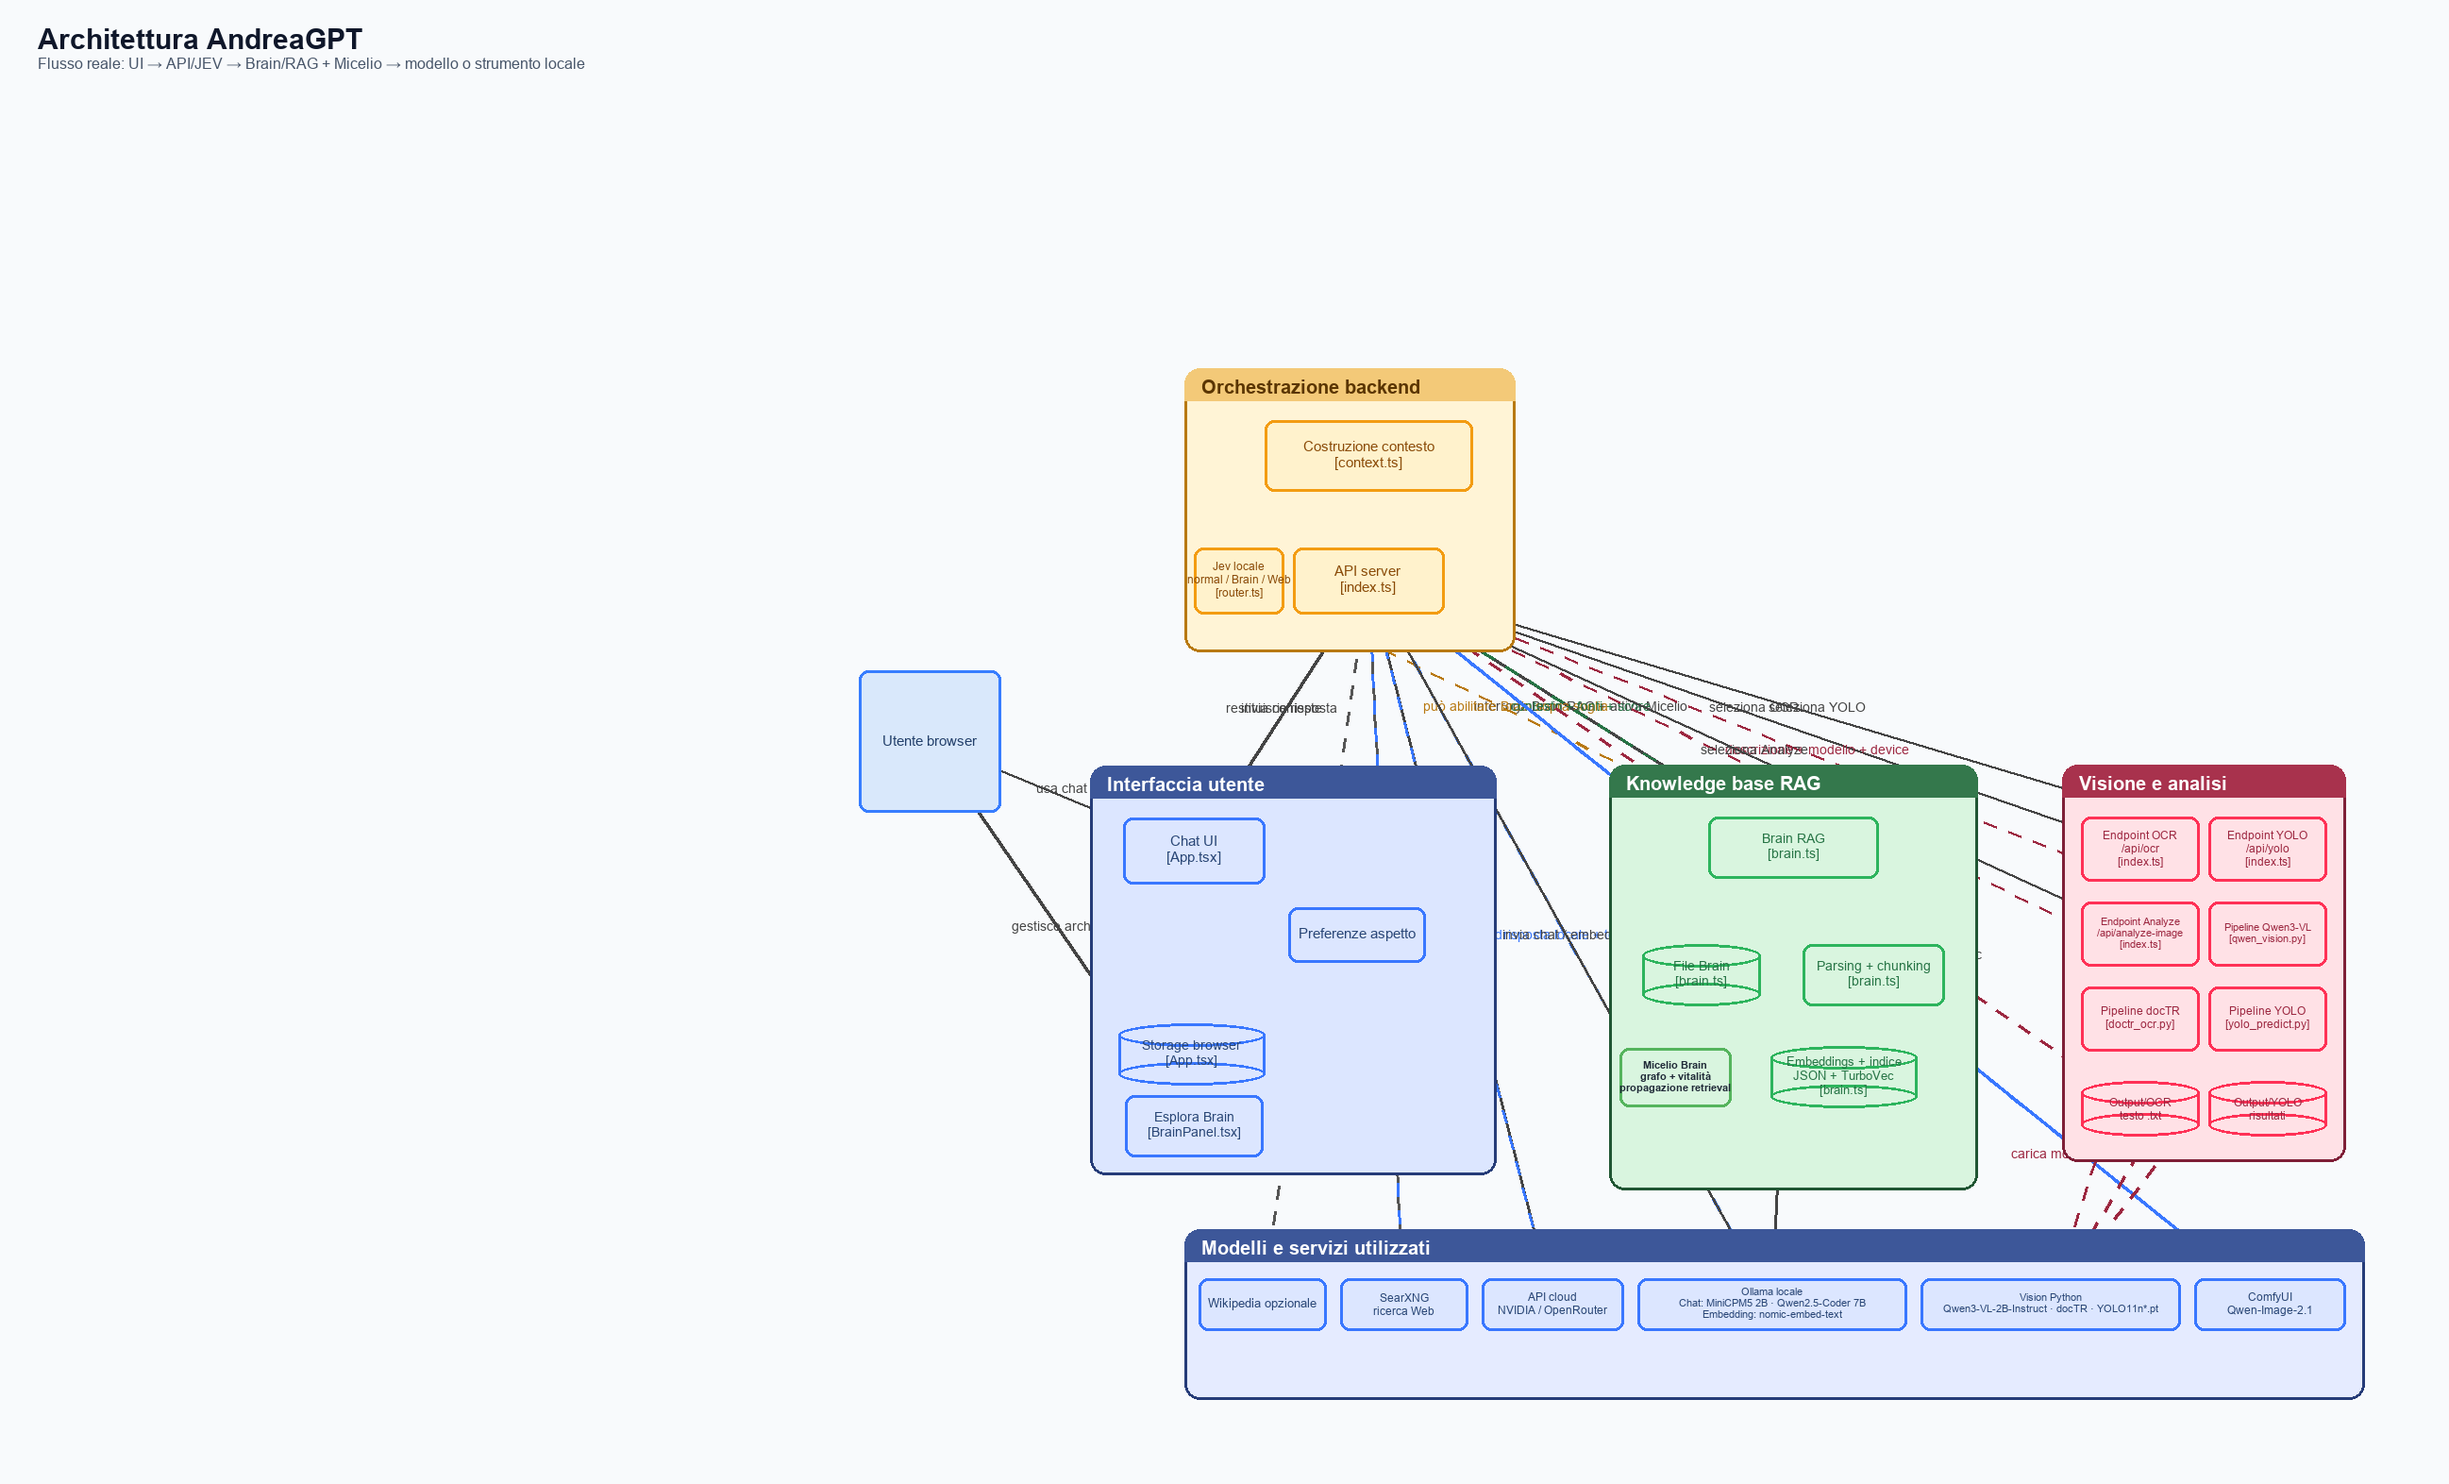
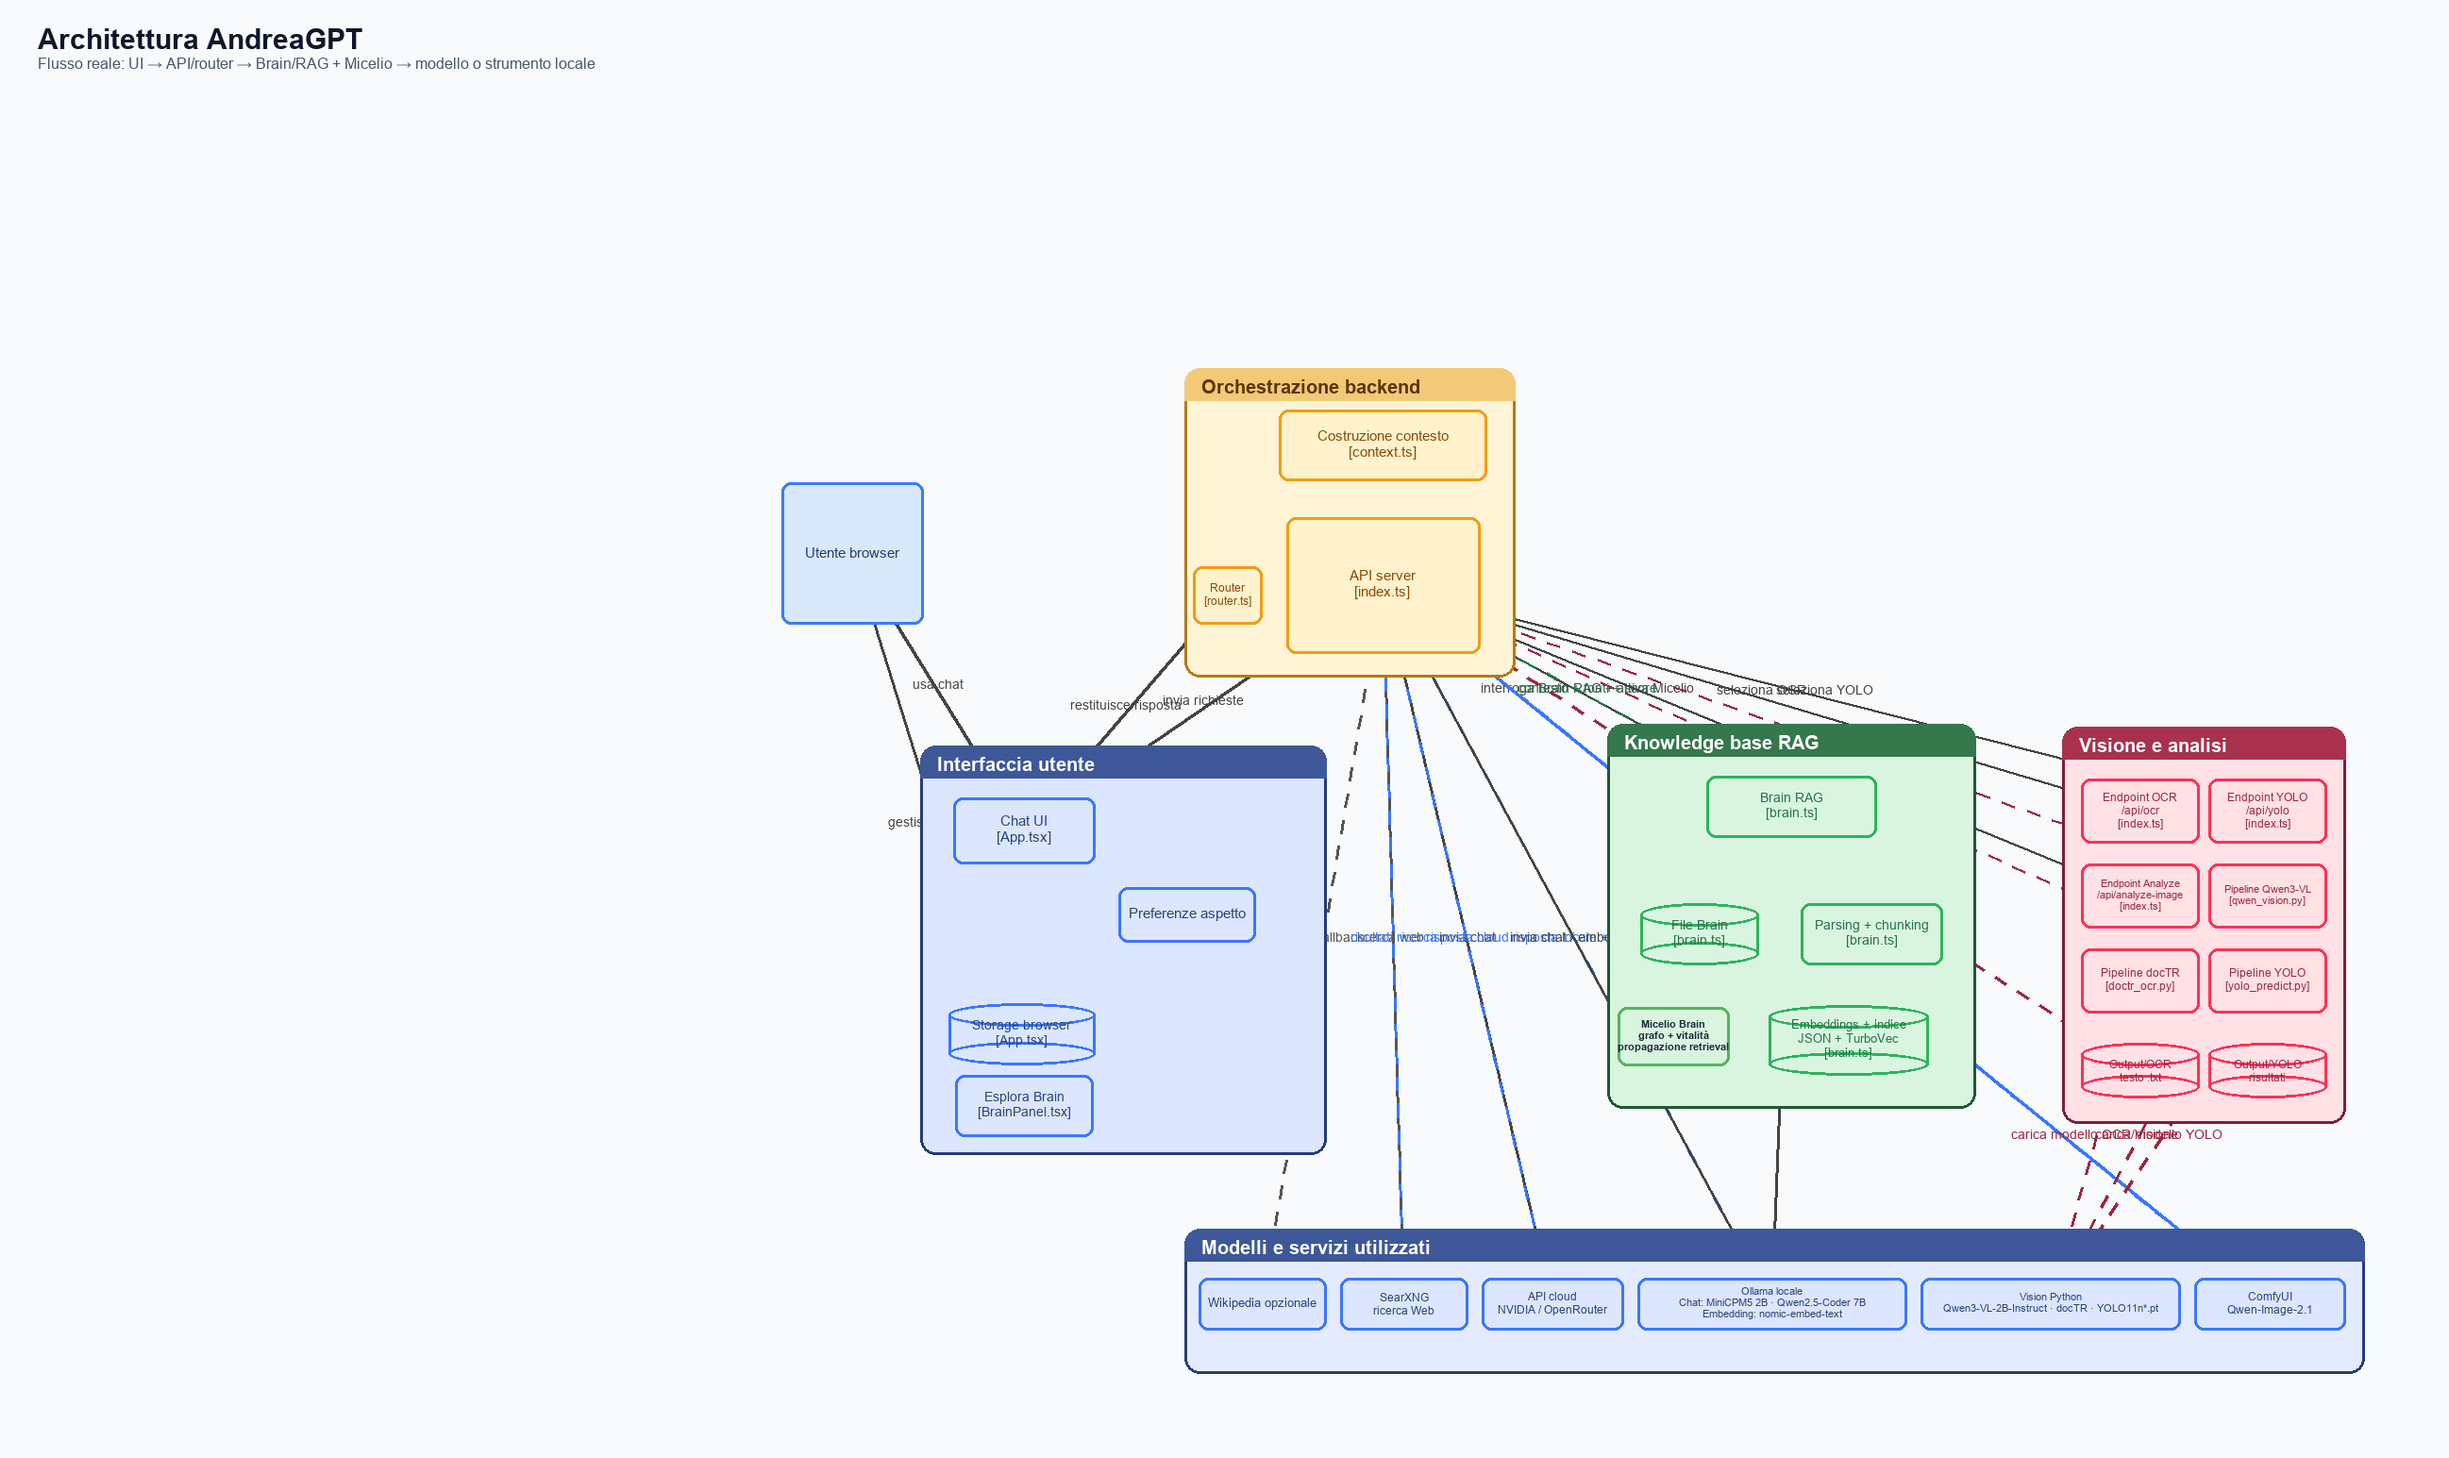
Aggiorna 01/10  PM

Changed region(s): [[0.3121, 0.2485, 0.9676, 0.932], [0.0312, 0.0311, 0.2497, 0.0621]]

diff --git a/scripts/tools/render_drawio_png.py b/scripts/tools/render_drawio_png.py
@@ -13,6 +13,7 @@ from PIL import Image, ImageDraw, ImageFont
 
 INPUT = Path(sys.argv[1] if len(sys.argv) > 1 else "DRAW/architettura-andreagpt.drawio")
 OUTPUT = Path(sys.argv[2] if len(sys.argv) > 2 else INPUT.with_suffix(".png"))
+IS_MAIN_ARCHITECTURE = INPUT.name.lower() == "architettura-andreagpt.drawio"
 
 tree = ET.parse(INPUT)
 cells = {cell.attrib["id"]: cell for cell in tree.getroot().iter("mxCell") if "id" in cell.attrib}
@@ -67,8 +68,8 @@ for cell in cells.values():
         vertices.append((cell, geometry(cell.attrib["id"]), style(cell)))
 
 by_id = {cell.attrib["id"]: (cell, geo, st) for cell, geo, st in vertices}
-width = max(1800, *(geo["x"] + geo["width"] for _, geo, _ in vertices)) + 90
-height = max(1100, *(geo["y"] + geo["height"] for _, geo, _ in vertices)) + 90
+width = max(1800 if IS_MAIN_ARCHITECTURE else 1400, *(geo["x"] + geo["width"] for _, geo, _ in vertices)) + 90
+height = max(1100 if IS_MAIN_ARCHITECTURE else 760, *(geo["y"] + geo["height"] for _, geo, _ in vertices)) + 90
 image = Image.new("RGB", (int(width), int(height)), "#f8fafc")
 draw = ImageDraw.Draw(image)
 
@@ -158,8 +159,9 @@ for cell, geo, st in regular:
         draw.rounded_rectangle((geo["x"], geo["y"], geo["x"] + geo["width"], geo["y"] + geo["height"]), radius=10, fill=fill, outline=stroke, width=3)
     centered_text(geo, label(cell), int(number(st.get("fontSize"), 16)), color(st.get("fontColor"), "#1f2937"), st.get("fontStyle") == "1")
 
-draw.text((40, 24), "Architettura AndreaGPT", font=font(30, True), fill="#0f172a")
-draw.text((40, 58), "Flusso reale: UI → API/router → Brain/RAG + Micelio → modello o strumento locale", font=font(16), fill="#475569")
+if IS_MAIN_ARCHITECTURE:
+    draw.text((40, 24), "Architettura AndreaGPT", font=font(30, True), fill="#0f172a")
+    draw.text((40, 58), "Flusso reale: UI → API/router → Brain/RAG + Micelio → modello o strumento locale", font=font(16), fill="#475569")
 OUTPUT.parent.mkdir(parents=True, exist_ok=True)
 image.save(OUTPUT, "PNG", optimize=True)
 print(f"Creato {OUTPUT}")

diff --git a/README.md b/README.md
@@ -10,13 +10,14 @@ richiesta al modello configurato.
 
 ## Architettura aggiornata
 
-![Crop dell'architettura AndreaGPT](DRAW/architettura-andreagpt.png)
+![Crop dell'architettura AndreaGPT](DRAW/architettura.png)
 
-[DRAW/architettura-andreagpt.drawio](DRAW/architettura-andreagpt.drawio)
 
-Il file Draw.io è la versione modificabile e aggiornata. L'immagine sopra è
-l'anteprima visiva dell'architettura: mostra il percorso Utente → interfaccia →
-API/backend → Brain/RAG e Micelio → modello o strumento locale.
+### Schema del router locale
+
+![Schema visuale del router locale](DRAW/router.png)
+
+[Schema modificabile del router locale](DRAW/router.drawio)
 
 ## Brain: come funziona
 
@@ -36,16 +37,9 @@ Quando un documento entra nel Brain, il sistema:
 - seleziona pochi estratti pertinenti e li inserisce nel prompt;
 - restituisce risposta, fonti, punteggi e diagnostica.
 
-```text
-documenti
-   |
-   +--> estrazione --> chunk con provenienza --> embedding
-                                             |
-                                             +--> SQLite/FTS5 + vettori + TurboVec
+![Schema visuale del flusso Brain/RAG](DRAW/rag.png)
 
-domanda --> candidati lessicali e vettoriali --> ranking + Micelio
-         --> fonti selezionate --> prompt controllato --> risposta citata
-```
+[Schema modificabile Brain/RAG](DRAW/rag.drawio)
 
 La configurazione predefinita usa chunk di circa 1200 caratteri con sovrapposizione
 di 180 caratteri. Il Brain può cercare in tutto l'archivio oppure limitarsi a una
@@ -89,10 +83,9 @@ forti e calcola grado, centralità, betweenness, closeness e vitalità. Poi prop
 una parte dello score dai candidati verso i vicini e usa il risultato per
 riordinare le fonti senza perdere la loro provenienza.
 
-```text
-query -> chunk simili -> vicini semantici -> propagazione controllata
-      -> centralità/vitalità/feedback -> ranking Brain -> fonti
-```
+![Schema visuale Micelio e TurboVec](DRAW/micelio-turbovec.png)
+
+[Schema modificabile Brain, TurboVec e Micelio](DRAW/micelio-turbovec.drawio)
 
 La dashboard mostra raccolte, file ed estratti, legami, nodi attivi/passivi,
 centralità e vitalità. Il valore Affinità o micelioSupportScore indica coerenza
@@ -104,9 +97,10 @@ TurboVec è l'acceleratore della ricerca vettoriale. Riceve gli embedding prodot
 dal Brain e individua rapidamente i candidati più vicini, evitando di confrontare
 ogni documento completo a ogni domanda.
 
-```text
-testo -> embedding -> indice TurboVec -> candidati -> retrieval -> Micelio
-```
+Il flusso visuale completo, dall'embedding fino al ranking Micelio, è disponibile
+qui:
+
+![Flusso TurboVec e retrieval](DRAW/micelio-turbovec.png)
 
 Il ponte è backend/utils/turbovec_bridge.py e la ricostruzione può essere avviata
 da POST /api/brain/turbovec. TurboVec non genera testo, non sceglie il modello e
